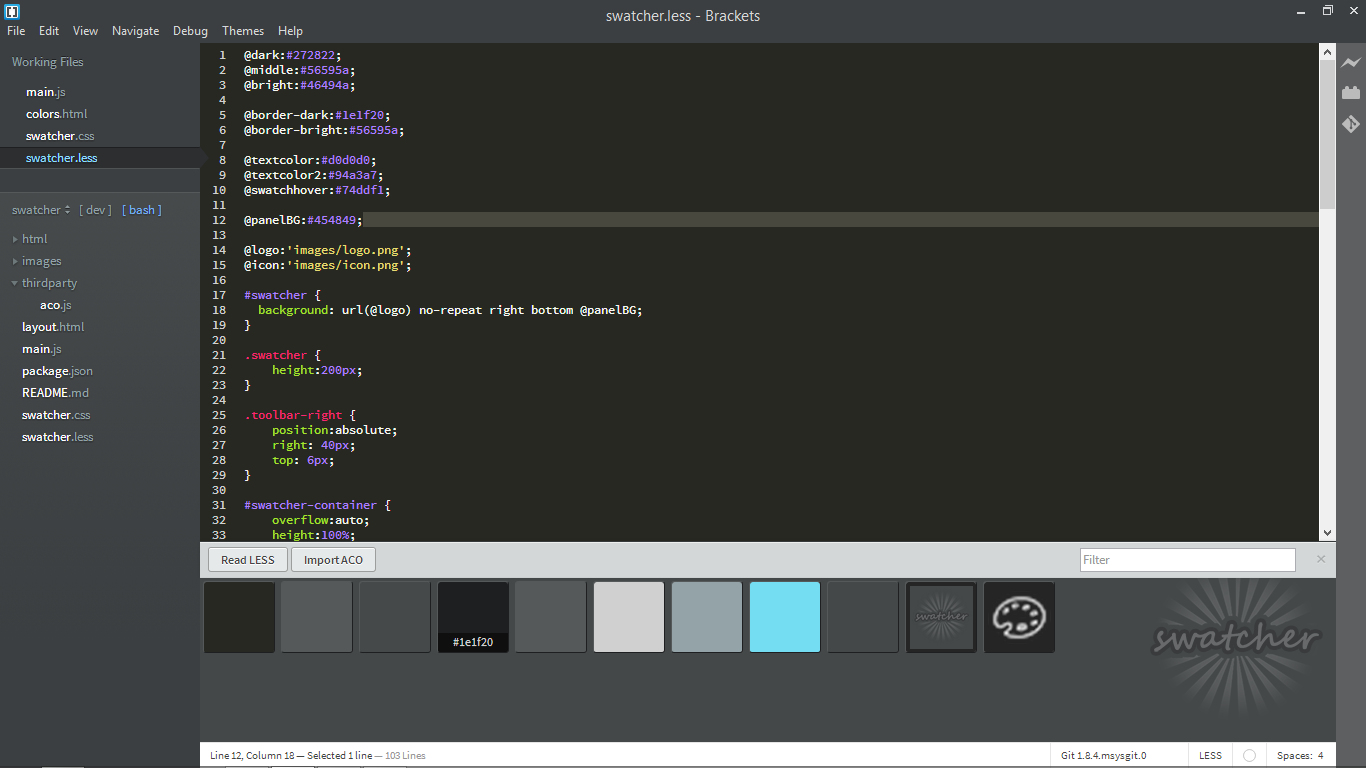
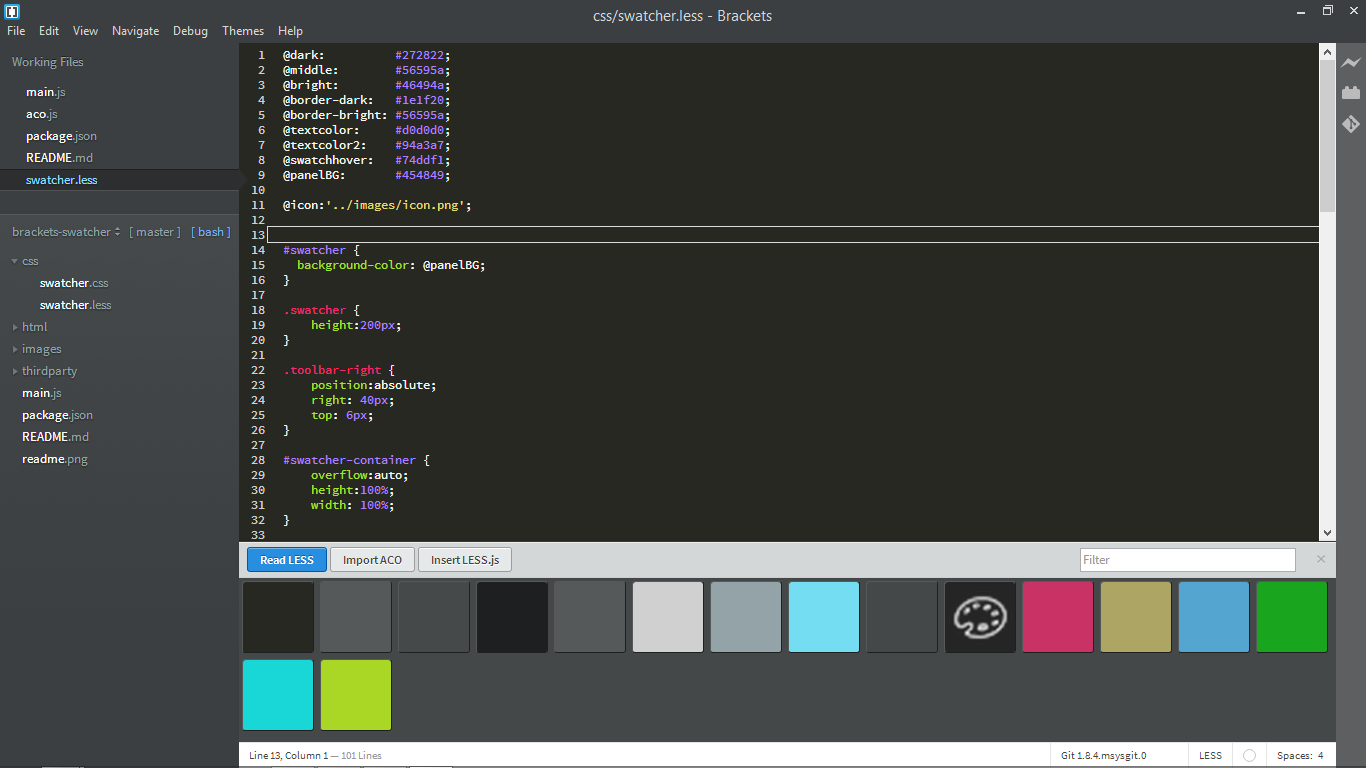
aco lib refactored, uses now readAsArrayBuffer(), bumped Version, new Screenshot

diff --git a/thirdparty/aco.js b/thirdparty/aco.js
@@ -1,32 +1,16 @@
+/*jslint vars: true, plusplus: true, nomen: true, devel: true, regexp: true, indent: 4, maxerr: 50 */
+/*global define, $, brackets, FileReader, Mustache */
 define(function (require, exports, module) {
+
     var aco = {
 
         version: 0,
         colnum: 0,
-        hex: 0,
         colors: [],
 
-        reset: function () {
-            aco.version = 0;
-            aco.colnum = 0;
-            aco.hex = 0;
-            aco.colors = [];
-        },
-
-        bin2hex: function (s) {
-            var i, l, o = [],
-                n;
-
-            s += "";
-
-            for (i = 0, l = s.length; i < l; i++) {
-                n = s.charCodeAt(i).toString(16);
-                o += n.length < 2 ? "0" + n : n;
-            }
-
-            return o;
-        },
-
+        /*
+            Generate Hex Colorhash from decimal r g b values (0-255)
+        */
         genHash: function (r, g, b) {
             var bin = r << 16 | g << 8 | b;
             return (function (h) {
@@ -34,75 +18,87 @@ define(function (require, exports, module) {
             })(bin.toString(16).toUpperCase());
         },
 
-        readword: function (c) {
-            if (c > aco.hex.length || c + 4 > aco.hex.length)
-                return false;
-
-            return aco.hex.substr(c, 4);
-        },
-
-        readaco: function () {
-            var pot, col;
-
-            aco.version = parseInt(aco.readword(0), null);
-            aco.colnum = parseInt(aco.readword(4), 16);
+        /*
+            Reads Version and Colorsum of the Palette
+            1 = Version of Palette
+            3 = Colorsum 
+        */
+        readHead: function (array) {
+            aco.version = array[1];
+            aco.colnum = array[3];
+            aco.colors = [];
 
             if (aco.version < 1 || aco.version > 2) {
                 console.log('Unknown ACO Version');
-            }
-
-            for (var i = 0; i < aco.colnum; i++) {
-                // First item is always on 8 each item iterates on 20 (8 28 48 68 etc)
-                // Why 8 ? [0 - 4] is the ACO Version, on [4 - 8] is the Number of all Colors in the Palette (in Hex)
-                // Why 20 ? [4] ColorSpace, [4] Red, [4] Green, [4] Blue, [4] ???
-                // Only Tested with Version 1
-                pot = i * 20;
-                col = aco.getColorsV1(8 + pot);
-                
-                if (col) {
-                    aco.colors.push(col);
-                }
-            }
-        },
-
-        /* Colspaces:
-        0 RGB           |    1 HSB
-        2 CMYK          |    3 PANTONE
-        4 FOCOLTONE     |    5 TRUMATCH
-        6 TOYO88        |    7 LAB
-        8 GREYSCALE     |    9 ???
-        10 HKS          |
-    */
-        getColorsV1: function (cn) {
-            var colspace = aco.readword(cn);
-
-            if (colspace != "0000") {
-                console.log('Not RGB - skipping color');
                 return false;
             }
 
-            // For what i know the indexes are only for RGB
-            var r = parseInt(aco.readword(cn + 4), 16) / 256;
-            var g = parseInt(aco.readword(cn + 8), 16) / 256;
-            var b = parseInt(aco.readword(cn + 12), 16) / 256;
-            var hash = "#" + aco.genHash(r, g, b);
+            return 1;
 
-            return {
-                r: r,
-                g: g,
-                b: b,
-                hash: hash
-            };
         },
 
-        getPalette: function (binStr) {
-            aco.reset();
-            aco.hex = aco.bin2hex(binStr);
-            aco.readaco();
-            return aco.colors;
-        }
+        /*
+            Colorspace Checker
+        */
+        checkColorSpace: function (value, type) {
+            var cs = {
+                'RGB': 0,
+                'HSB': 1,
+                'CMYK': 2,
+                'PANTONE': 3,
+                'FOCOLTONE': 4,
+                'TRUMATCH': 5,
+                'TOYO88': 6,
+                'LAB': 7,
+                'GREYSCALE': 8,
+                'HKS': 10
+            };
 
+            if (value === cs[type])
+                return true;
+
+            return false;
+        },
+
+        /*
+        Color Iterates on 10, odd thing: A Color has everytime 2 Codes in it
+        Example: 6 (Position for Red) = 200, 7 = sometimes 200, sometimes other value
+        This can you see on all Colorcodes
+            
+        Positions: (x stands for Iterator 10)
+            x5      |   COLORSPACE
+            x6      |   RED
+            x7      |   Strange Red Double ?
+            x8      |   GREEN
+            x9      |   Strange Green Double ?
+            x10     |   BLUE
+            x11     |   Strange Blue Double ? 
+        */
+
+        getRGB: function (buffer) {
+            var pot;
+            var data = new Uint8Array(buffer);
+
+            if (!aco.readHead(data)) {
+                return false;
+            }
+
+            for (var i = 0; i < aco.colnum; i++) {
+                pot = i * 10;
+
+                if (aco.checkColorSpace(data[pot + 5], 'RGB')) {
+                    aco.colors.push("#" + aco.genHash(data[pot + 6], data[pot + 8], data[pot + 10]));
+                } else {
+                    console.log('Skipping Color - Not RGB');
+                }
+
+            }
+
+            return aco.colors;
+
+        }
     };
 
-    exports.getPalette = aco.getPalette;
+    exports.getRGB = aco.getRGB;
+
 });

diff --git a/main.js b/main.js
@@ -170,17 +170,16 @@ define(function (require, exports, module) {
         var name, str = "",
             panelData = [];
 
-        acoPalette.forEach(function (obj, i) {
-            if (obj.hash) {
-                name = '@color' + i;
-                str += name + ":" + obj.hash + "; \n";
+        acoPalette.forEach(function (color, i) {
 
-                panelData.push({
-                    less: '@color' + i,
-                    hex: obj.hash,
-                    style: 'background-color:' + obj.hash
-                });
-            }
+            name = '@color' + i;
+            str += name + ":" + color + "; \n";
+
+            panelData.push({
+                less: '@color' + i,
+                hex: color,
+                style: 'background-color:' + color
+            });
         });
 
         var html = Mustache.render(AcoView, {
@@ -332,9 +331,7 @@ define(function (require, exports, module) {
                 $('.found').fadeIn(fadeIn);
 
             } else {
-
                 $('.swatcher-colorwrap').removeClass('found').fadeIn(fadeIn);
-
             }
         });
 
@@ -356,7 +353,7 @@ define(function (require, exports, module) {
             $dialog.on('change', '#swatcher-file', function () {
                 var fr = new FileReader();
                 fr.onloadend = function () {
-                    palette = Aco.getPalette(this.result);
+                    palette = Aco.getRGB(this.result);
 
                     // We cant use aco.colnum because that property can be from all colorspaces - we just want RGB (prevented in lib)
                     if (palette.length > 0) {
@@ -374,7 +371,7 @@ define(function (require, exports, module) {
                     }
 
                 };
-                fr.readAsBinaryString(this.files[0]);
+                fr.readAsArrayBuffer(this.files[0]);
             });
 
             /*

diff --git a/README.md b/README.md
@@ -13,8 +13,5 @@ A Brackets.io Extension to load Photoshop ACO Palette Files (RGB only) or parse 
 * Click on the property name (Colorhash or [img]) will switch the current Document to the LESS file and go automatically to the line where the @variable is specified.
 * Filter via LESS @variable names
 
-##TODO
-* Redo ACOLib
-
  **Author** [FreaKzero](https://github.com/freakzero) 
  **Extension for** [Brackets.io](http://brackets.io)
